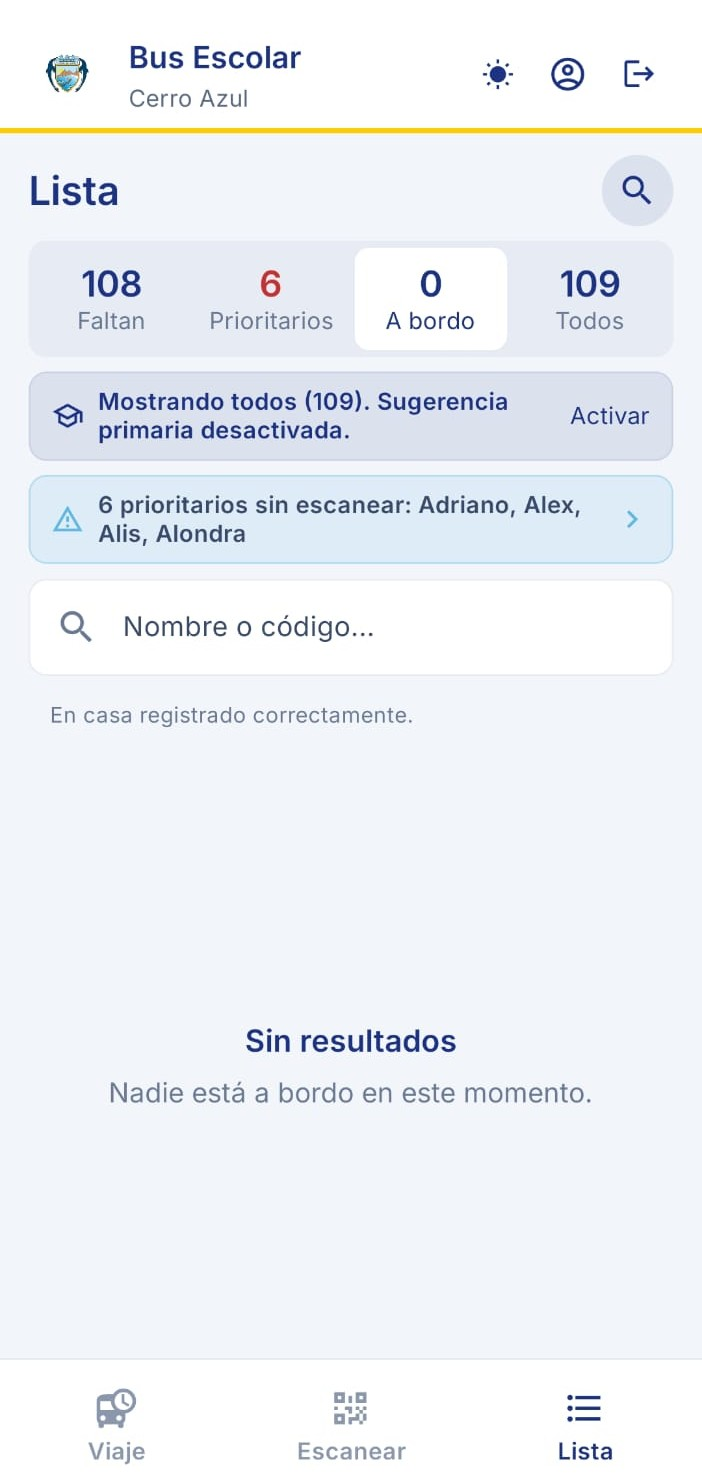
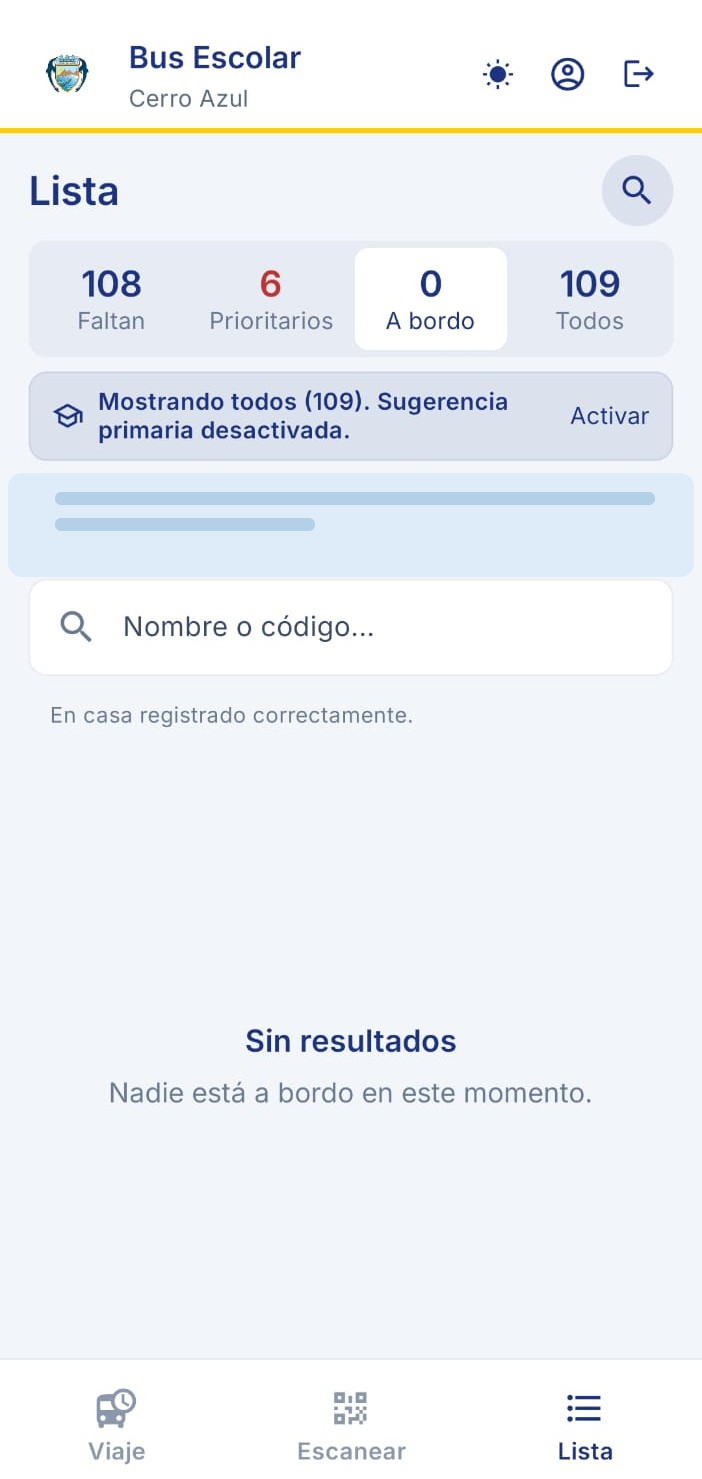
feat(projects): enhance project metadata generation and update portfolio content
- Added a new function to generate metadata for project case studies, improving SEO and user experience.
- Updated project descriptions and highlights in both English and Spanish to reflect new features and functionalities.
- Adjusted the project catalog to ensure correct image ordering for the "BusControl QR" project.

Changed region(s): [[0.0598, 0.311, 0.9274, 0.3732]]

diff --git a/src/app/projects/[slug]/page.tsx b/src/app/projects/[slug]/page.tsx
@@ -1,5 +1,7 @@
+import type { Metadata } from "next";
 import { ProjectCaseStudy } from "@/components/projects/ProjectCaseStudy";
-import { getAllProjectSlugs } from "@/data/portfolio";
+import { getAllProjectSlugs, getProjectBySlug } from "@/data/portfolio";
+import { DEFAULT_LOCALE } from "@/i18n";
 
 type ProjectCasePageProps = {
   params: Promise<{ slug: string }>;
@@ -7,6 +9,27 @@ type ProjectCasePageProps = {
 
 export function generateStaticParams() {
   return getAllProjectSlugs().map((slug) => ({ slug }));
+}
+
+export async function generateMetadata({
+  params,
+}: ProjectCasePageProps): Promise<Metadata> {
+  const { slug } = await params;
+  const project = getProjectBySlug(DEFAULT_LOCALE, slug);
+
+  if (!project) {
+    return { title: "Proyecto no encontrado · Denilson Godoy" };
+  }
+
+  return {
+    title: `${project.title} · Denilson Godoy`,
+    description: project.description,
+    openGraph: {
+      title: project.title,
+      description: project.description,
+      images: project.images,
+    },
+  };
 }
 
 export default async function ProjectCasePage({ params }: ProjectCasePageProps) {

diff --git a/src/data/portfolio.ts b/src/data/portfolio.ts
@@ -80,8 +80,8 @@ const projectCatalog: ProjectCatalogItem[] = [
     slug: "buscontrol-qr",
     type: "mobile",
     images: [
-      "/projects/control-asistencia/cover.png",
       "/projects/control-asistencia/dashboard.png",
+      "/projects/control-asistencia/cover.png",
     ],
     technologies: [
       { name: "Expo" },
